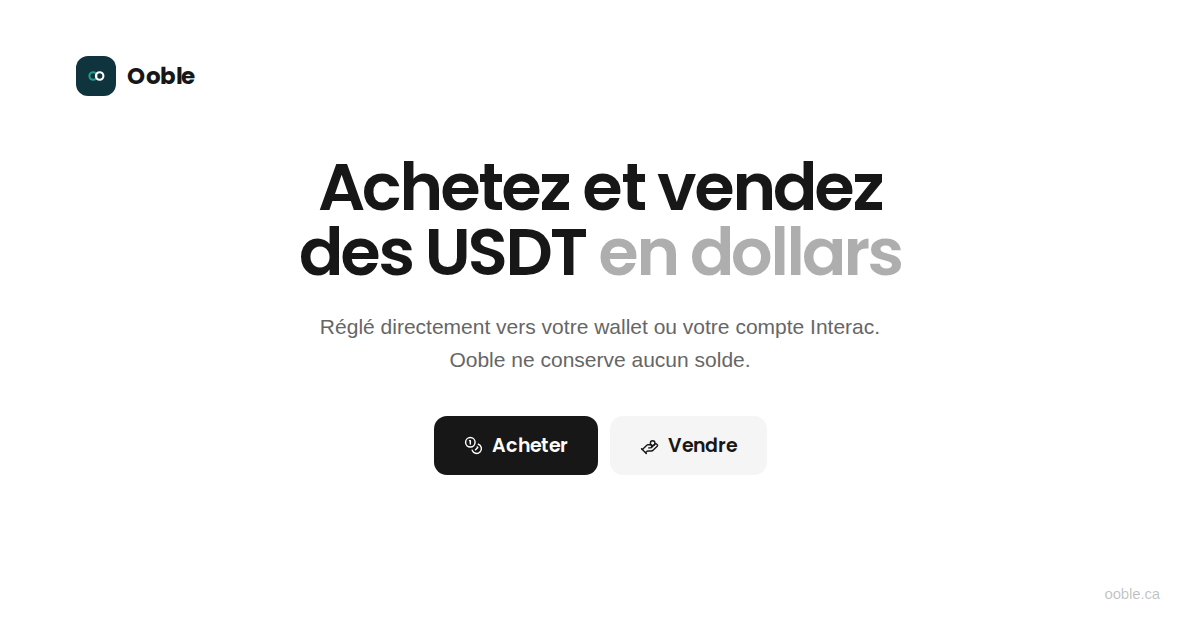
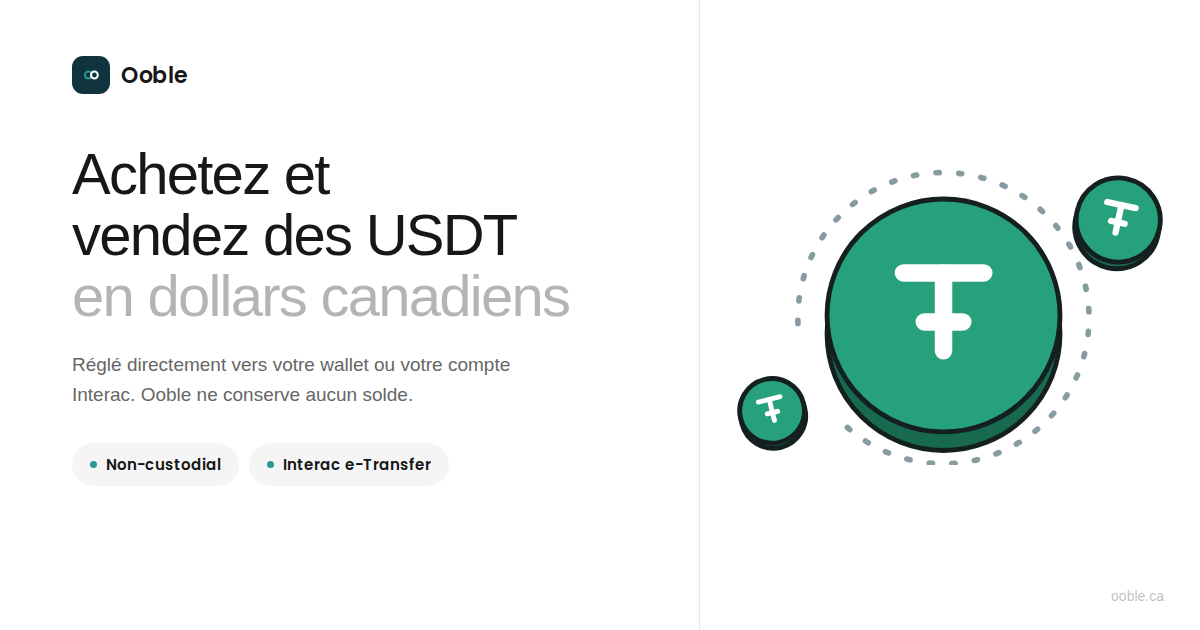
OG image: black-and-white left panel, keep the coin illustration
The two-panel idea and the right-side USDT coin illustration were right,
but the left panel had drifted into a petrol background with a diagonal
texture and a dashed ring — a color treatment that isn't part of the
actual design system. Redone to match the landing page's real theme:
white background, near-black headline with the softened grey accent
line, grey subtitle, and the same square logo mark used in the live
Header. The right panel (CoinsArt) is untouched. A 1px hairline replaces
the color-block seam between the two panels.

Claude-Session: https://claude.ai/code/session_01CAJ8dx7vnzGsX95vvxDFrG

diff --git a/scripts/og-image.html b/scripts/og-image.html
@@ -1,7 +1,12 @@
 <!--
   Source de public/og-image.png (aperçu de partage — réseaux sociaux, WhatsApp).
-  Reprend fidèlement le design de la landing page (fond blanc, thème
-  « ink-neutral », boutons pilule) — pas de fond sombre ni d'accent vert.
+
+  Composition à deux panneaux plutôt qu'une capture de la section héros :
+  panneau blanc à gauche (logo, titre, pastille) au même thème « noir et
+  blanc » que la landing page — pas de fond de couleur, pas de texture —,
+  panneau blanc à droite avec l'illustration de pièce USDT réutilisée telle
+  quelle depuis `CoinsArt`/`UsdtCoin` (src/components/illustrations.tsx) —
+  même tracé, mêmes couleurs, pour rester une vraie pièce de la marque.
 
   FONT_500/600/700/800 sont des marqueurs à remplacer par les polices Poppins
   encodées en base64 avant capture (ce fichier n'affiche pas le bon texte tel
@@ -18,154 +23,191 @@
 <head>
 <meta charset="utf-8" />
 <style>
-  @font-face {
-    font-family: "Poppins";
-    font-weight: 500;
-    src: url("FONT_500") format("truetype");
-  }
-  @font-face {
-    font-family: "Poppins";
-    font-weight: 600;
-    src: url("FONT_600") format("truetype");
-  }
-  @font-face {
-    font-family: "Poppins";
-    font-weight: 700;
-    src: url("FONT_700") format("truetype");
-  }
-  @font-face {
-    font-family: "Poppins";
-    font-weight: 800;
-    src: url("FONT_800") format("truetype");
-  }
+  @font-face { font-family: "Poppins"; font-weight: 500; src: url("FONT_500") format("truetype"); }
+  @font-face { font-family: "Poppins"; font-weight: 600; src: url("FONT_600") format("truetype"); }
+  @font-face { font-family: "Poppins"; font-weight: 700; src: url("FONT_700") format("truetype"); }
+  @font-face { font-family: "Poppins"; font-weight: 800; src: url("FONT_800") format("truetype"); }
 
   * { margin: 0; padding: 0; box-sizing: border-box; }
 
   body {
     width: 1200px;
     height: 630px;
-    background: #ffffff;
     font-family: "Poppins", sans-serif;
     position: relative;
+    overflow: hidden;
+    background: #ffffff;
+  }
+
+  /* ---------- Panneau gauche : même thème que la landing page (blanc, encre) ---------- */
+  .panel-left {
+    position: absolute;
+    inset: 0;
+    width: 700px;
+    background: #ffffff;
+    border-right: 1px solid #e6e6e6;
     overflow: hidden;
   }
 
   .logo {
     position: absolute;
     top: 56px;
-    left: 76px;
+    left: 72px;
     display: flex;
     align-items: center;
     gap: 11px;
   }
   .logo-mark {
-    width: 40px;
-    height: 40px;
-    border-radius: 12px;
+    width: 38px;
+    height: 38px;
+    border-radius: 11px;
     background: #0f343e;
     display: flex;
     align-items: center;
     justify-content: center;
   }
   .logo-word {
-    font-weight: 700;
-    font-size: 23px;
+    font-weight: 600;
+    font-size: 22px;
     color: #171717;
     letter-spacing: -0.02em;
   }
 
-  .content {
+  .left-content {
     position: relative;
     height: 100%;
-    padding: 0 76px;
+    padding: 0 72px;
     display: flex;
     flex-direction: column;
     justify-content: center;
-    align-items: center;
-    text-align: center;
   }
 
   h1 {
-    font-weight: 600;
-    font-size: 66px;
-    line-height: 0.99;
-    letter-spacing: -0.045em;
+    font-weight: 500;
+    font-size: 58px;
+    line-height: 1.05;
+    letter-spacing: -0.03em;
     color: #171717;
-    max-width: 980px;
   }
-  h1 .soft {
-    color: rgba(23,23,23,0.35);
+  h1 .accent {
+    color: rgba(23,23,23,0.32);
   }
 
   p.sub {
-    margin-top: 26px;
+    margin-top: 24px;
     font-weight: 500;
-    font-size: 21px;
+    font-size: 19px;
     line-height: 1.55;
     color: #666666;
-    max-width: 620px;
+    max-width: 440px;
   }
 
-  .buttons {
-    margin-top: 40px;
+  .badges {
+    margin-top: 34px;
     display: flex;
-    gap: 12px;
+    gap: 10px;
   }
-  .btn {
+  .badge {
     display: flex;
     align-items: center;
     gap: 9px;
-    padding: 15px 30px;
-    border-radius: 13px;
-    font-weight: 600;
-    font-size: 19px;
-  }
-  .btn-solid {
-    background: #171717;
-    color: #ffffff;
-  }
-  .btn-flat {
+    padding: 10px 18px;
+    border-radius: 999px;
     background: #f5f5f5;
+    font-weight: 600;
+    font-size: 15px;
     color: #171717;
+  }
+  .badge .dot {
+    width: 7px;
+    height: 7px;
+    border-radius: 50%;
+    background: #29998e;
+  }
+
+  /* ---------- Panneau droit : blanc, illustration de marque ---------- */
+  .panel-right {
+    position: absolute;
+    inset: 0;
+    left: 700px;
+    width: 500px;
+    background: #ffffff;
+    display: flex;
+    align-items: center;
+    justify-content: center;
   }
 
   .domain {
     position: absolute;
-    right: 40px;
-    bottom: 28px;
+    right: 36px;
+    bottom: 26px;
     font-weight: 500;
-    font-size: 15px;
-    letter-spacing: -0.01em;
-    color: rgba(23,23,23,0.28);
+    font-size: 14px;
+    color: rgba(23,23,23,0.3);
   }
 </style>
 </head>
 <body>
-  <div class="logo">
-    <span class="logo-mark">
-      <svg viewBox="0 0 32 32" width="26" height="26">
-        <circle cx="12.5" cy="16" r="4.6" fill="none" stroke="#29998e" stroke-width="2.6" />
-        <circle cx="20.5" cy="16" r="4.6" fill="none" stroke="#ffffff" stroke-width="2.6" />
-      </svg>
-    </span>
-    <span class="logo-word">Ooble</span>
+  <div class="panel-left">
+    <div class="logo">
+      <span class="logo-mark">
+        <svg viewBox="0 0 32 32" width="24" height="24">
+          <circle cx="12.5" cy="16" r="4.6" fill="none" stroke="#29998e" stroke-width="2.6" />
+          <circle cx="20.5" cy="16" r="4.6" fill="none" stroke="#ffffff" stroke-width="2.6" />
+        </svg>
+      </span>
+      <span class="logo-word">Ooble</span>
+    </div>
+
+    <div class="left-content">
+      <h1>Achetez et<br />vendez des USDT<br /><span class="accent">en dollars canadiens</span></h1>
+      <p class="sub">Réglé directement vers votre wallet ou votre compte Interac. Ooble ne conserve aucun solde.</p>
+      <div class="badges">
+        <span class="badge"><span class="dot"></span>Non-custodial</span>
+        <span class="badge"><span class="dot"></span>Interac e-Transfer</span>
+      </div>
+    </div>
+  </div>
+
+  <div class="panel-right">
+    <!-- CoinsArt, reprise à l'identique depuis src/components/illustrations.tsx -->
+    <svg viewBox="78 62 272 186" width="440" fill="none">
+      <path
+        d="M120 160 a 90 90 0 1 1 26 60"
+        fill="none"
+        stroke="#0F3A43"
+        stroke-width="3.5"
+        stroke-linecap="round"
+        stroke-dasharray="2 12"
+        opacity="0.5"
+      />
+      <!-- grande pièce -->
+      <g transform="translate(210 155)">
+        <circle cx="0" cy="11.5" r="72" fill="#17694f" stroke="#14201f" stroke-width="3" />
+        <circle cx="0" cy="0" r="72" fill="#26A17B" stroke="#14201f" stroke-width="3" />
+        <rect x="-30.2" y="-31.7" width="60.5" height="10.8" rx="5.4" fill="#fff" />
+        <rect x="-5.4" y="-31.7" width="10.8" height="59" rx="5.4" fill="#fff" />
+        <rect x="-17.3" y="-1.4" width="34.6" height="10.8" rx="5.4" fill="#fff" />
+      </g>
+      <!-- petite pièce haut droite -->
+      <g transform="translate(318 96) rotate(12)">
+        <circle cx="0" cy="4.2" r="26" fill="#17694f" stroke="#14201f" stroke-width="3" />
+        <circle cx="0" cy="0" r="26" fill="#26A17B" stroke="#14201f" stroke-width="3" />
+        <rect x="-10.9" y="-11.4" width="21.8" height="3.9" rx="1.95" fill="#fff" />
+        <rect x="-1.95" y="-11.4" width="3.9" height="21.3" rx="1.95" fill="#fff" />
+        <rect x="-6.2" y="-0.5" width="12.5" height="3.9" rx="1.95" fill="#fff" />
+      </g>
+      <!-- petite pièce bas gauche -->
+      <g transform="translate(104 214) rotate(-14)">
+        <circle cx="0" cy="3.2" r="20" fill="#17694f" stroke="#14201f" stroke-width="3" />
+        <circle cx="0" cy="0" r="20" fill="#26A17B" stroke="#14201f" stroke-width="3" />
+        <rect x="-8.4" y="-8.8" width="16.8" height="3" rx="1.5" fill="#fff" />
+        <rect x="-1.5" y="-8.8" width="3" height="16.4" rx="1.5" fill="#fff" />
+        <rect x="-4.8" y="-0.4" width="9.6" height="3" rx="1.5" fill="#fff" />
+      </g>
+    </svg>
   </div>
 
   <div class="domain">ooble.ca</div>
-
-  <div class="content">
-    <h1>Achetez et vendez<br />des USDT <span class="soft">en&nbsp;dollars</span></h1>
-    <p class="sub">Réglé directement vers votre wallet ou votre compte Interac. Ooble ne conserve aucun solde.</p>
-    <div class="buttons">
-      <span class="btn btn-solid">
-        <svg width="19" height="19" viewBox="0 0 24 24" fill="none" stroke="currentColor" stroke-width="1.8" stroke-linecap="round" stroke-linejoin="round"><circle cx="8" cy="8" r="6"/><path d="M18.09 10.37A6 6 0 1 1 10.34 18"/><path d="M7 6h1v4"/><path d="m16.71 13.88.7.71-2.82 2.82"/></svg>
-        Acheter
-      </span>
-      <span class="btn btn-flat">
-        <svg width="19" height="19" viewBox="0 0 24 24" fill="none" stroke="currentColor" stroke-width="1.8" stroke-linecap="round" stroke-linejoin="round"><path d="M11 15h2a2 2 0 1 0 0-4h-3c-.6 0-1.1.2-1.4.6L3 17"/><path d="m7 21 1.6-1.4c.3-.4.8-.6 1.4-.6h4c1.1 0 2.1-.4 2.8-1.2l4.6-4.4a2 2 0 0 0-2.75-2.91l-4.2 3.9"/><path d="m2 16 6 6"/><circle cx="16" cy="9" r="2.9"/></svg>
-        Vendre
-      </span>
-    </div>
-  </div>
 </body>
 </html>
